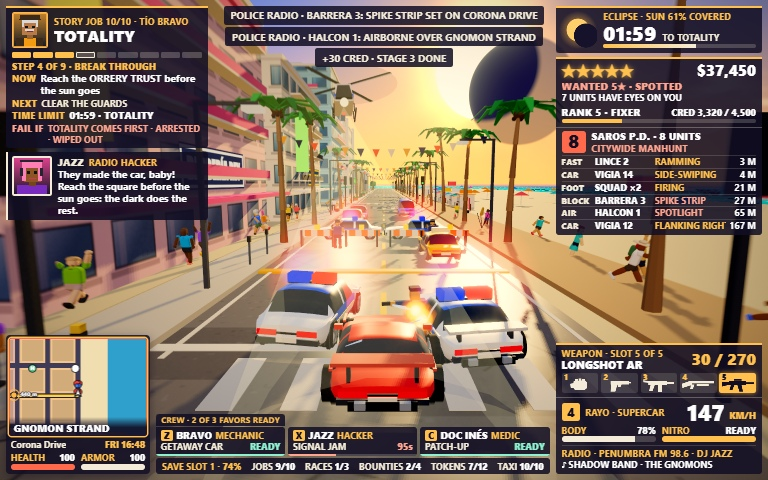
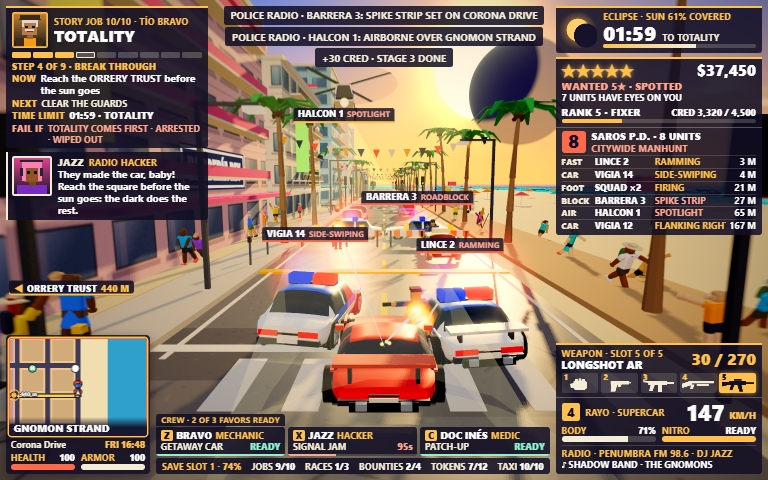
Callsign tags over the police units on her, each with the tactic it is running, and one under the helicopter; a waypoint plate on the screen where the job's next place stands, with its name and distance, sliding to the side it lies toward when out of view; the feed's lines live on the game's own tim

diff --git a/game/src/ui/hudUnitTags.js b/game/src/ui/hudUnitTags.js
@@ -1,0 +1,74 @@
+// Callsign tags over the police units hunting Nova: a small plate floating above each of the nearest cruisers,
+// interceptors and vans, the blockade and the helicopter, with the unit's radio name and the tactic it is running
+// right now. The dispatch panel lists the same units; the tags say which one on the street is which.
+import * as THREE from 'three';
+import { distance2D } from '../core/random.js';
+import { createElement } from './domBuilder.js';
+
+/** How many tags the HUD draws at once (fewer on the huge HUD), and how far away a unit still gets one. */
+const MAX_TAGS = 5;
+const ESSENTIAL_TAGS = 2;
+const TAG_RANGE = 85;
+
+export class HudUnitTags {
+  constructor(game, root, cache) {
+    this.game = game;
+    this.cache = cache;
+    this.layer = createElement('div', 'unit-tags', root);
+    this.point = new THREE.Vector3();
+    this.tags = [];
+    for (let index = 0; index < MAX_TAGS; index += 1) {
+      const tag = createElement('div', 'unit-tag', this.layer);
+      this.tags.push({ tag, name: createElement('b', '', tag), tactic: createElement('em', '', tag) });
+    }
+    this.found = [];
+  }
+
+  /** Every unit in range with a place in the world to hang a tag on, nearest first: [distance, x, y, z, unit, tactic]. */
+  unitsInRange() {
+    const game = this.game;
+    const player = game.player.position;
+    const found = this.found;
+    found.length = 0;
+    const blockades = new Set();
+    for (const vehicle of game.vehicles.list) {
+      if (vehicle.dead || vehicle.driver !== 'cop' || !vehicle.unit || !vehicle.controller) continue;
+      if (!vehicle.controller.isPursuit && !vehicle.controller.isBlockade) continue;
+      // The cars of one blockade share a callsign: the first of them carries its tag.
+      if (vehicle.controller.isBlockade) { if (blockades.has(vehicle.unit)) continue; blockades.add(vehicle.unit); }
+      const distance = distance2D(vehicle.position.x, vehicle.position.z, player.x, player.z);
+      if (distance < TAG_RANGE) found.push([distance, vehicle.position.x, vehicle.spec.height + 1.15, vehicle.position.z, vehicle.unit, vehicle.controller.tacticLabel()]);
+    }
+    const helicopter = game.police.helicopter;
+    if (helicopter.active && helicopter.unit) {
+      const at = helicopter.mesh.position;
+      const distance = distance2D(at.x, at.z, player.x, player.z);
+      // The helicopter's tag hangs under it, so the machine itself stays clear against the sky.
+      if (distance < TAG_RANGE) found.push([distance, at.x, at.y - 3.6, at.z, helicopter.unit, helicopter.tacticLabel()]);
+    }
+    return found.sort((a, b) => a[0] - b[0]);
+  }
+
+  update() {
+    const game = this.game;
+    const cache = this.cache;
+    const limit = game.hud.essentials ? ESSENTIAL_TAGS : MAX_TAGS;
+    let used = 0;
+    if (game.wanted.stars > 0 && game.player.alive) {
+      for (const [, x, y, z, unit, tactic] of this.unitsInRange()) {
+        if (used >= limit) break;
+        const point = this.point.set(x, y, z).project(game.camera.view);
+        if (point.z > 1 || Math.abs(point.x) > 0.96 || Math.abs(point.y) > 0.96) continue;
+        const entry = this.tags[used];
+        used += 1;
+        entry.tag.style.left = `${((point.x * 0.5 + 0.5) * 100).toFixed(2)}%`;
+        entry.tag.style.top = `${((0.5 - point.y * 0.5) * 100).toFixed(2)}%`;
+        cache.toggle(entry.tag, 'visible', true);
+        cache.toggle(entry.tag, 'air', unit.role === 'air');
+        cache.text(entry.name, unit.callsign);
+        cache.text(entry.tactic, tactic);
+      }
+    }
+    for (let index = used; index < MAX_TAGS; index += 1) cache.toggle(this.tags[index].tag, 'visible', false);
+  }
+}

diff --git a/game/src/ui/hud.js b/game/src/ui/hud.js
@@ -11,6 +11,8 @@ import { HudCrewPanel } from './hudCrewPanel.js';
 import { HudVehiclePanel } from './hudVehiclePanel.js';
 import { HudWeaponBar } from './hudWeaponBar.js';
 import { HudFoeBars } from './hudFoeBars.js';
+import { HudUnitTags } from './hudUnitTags.js';
+import { HudWaypoint } from './hudWaypoint.js';
 import { HudRecordStrip } from './hudRecordStrip.js';
 import { drawSpeakerPortrait } from './speakerPortraits.js';
 import { speakerJob } from '../missions/storyMissions.js';
@@ -21,6 +23,9 @@ export const HUD_SIZES = {
   large: { label: 'LARGE', scale: 1.2 },
   huge: { label: 'HUGE · ESSENTIALS', scale: 2.5, essentials: true },
 };
+
+/** How long a line stays in the feed, in seconds of play. */
+const NOTE_SECONDS = 4.3;
 
 /** The feed's line for what the radio is playing: the station, its frequency, the track and the artist. */
 function radioLine(playing) {
@@ -48,8 +53,11 @@ export class Hud {
     this.weaponBar = new HudWeaponBar(game, corner, this.cache);
     this.vehiclePanel = new HudVehiclePanel(game, corner, this.cache);
     this.foeBars = new HudFoeBars(game, root, this.cache);
+    this.unitTags = new HudUnitTags(game, root, this.cache);
+    this.waypoint = new HudWaypoint(game, root, this.cache);
     this.recordStrip = new HudRecordStrip(game, root, this.cache);
     this.buildOverlays(root);
+    this.notes = [];
     this.speech = [];
     this.speechClock = 0;
     this.bannerClock = 0;
@@ -137,13 +145,25 @@ export class Hud {
     this.root.classList.toggle('hidden', !visible);
   }
 
-  /** A short line in the feed at the top of the screen: pickups, purchases, cred, radio chatter. */
+  /**
+   * A short line in the feed at the top of the screen: pickups, purchases, cred, radio chatter. The three newest
+   * show; each lives a few seconds of the game's own time, so the feed holds still while the game is paused.
+   */
   notify(message) {
     const line = createElement('div', 'note', null, message);
     this.notifications.prepend(line);
-    while (this.notifications.children.length > 3) this.notifications.lastChild.remove();
-    setTimeout(() => line.classList.add('gone'), 3600);
-    setTimeout(() => line.remove(), 4300);
+    this.notes.unshift({ line, life: NOTE_SECONDS });
+    while (this.notes.length > 3) this.notes.pop().line.remove();
+  }
+
+  /** Age the feed: a line fades over its last moments, then goes. */
+  ageNotes(dt) {
+    for (let index = this.notes.length - 1; index >= 0; index -= 1) {
+      const note = this.notes[index];
+      note.life -= dt;
+      if (note.life < 0.7) note.line.classList.add('gone');
+      if (note.life <= 0) { note.line.remove(); this.notes.splice(index, 1); }
+    }
   }
 
   /** The big centred title of a job start, pass or fail. */
@@ -235,7 +255,10 @@ export class Hud {
     this.weaponBar.update(dt);
     this.vehiclePanel.update(dt);
     this.foeBars.update(dt);
+    this.unitTags.update(dt);
+    this.waypoint.update(dt);
     this.recordStrip.update(dt);
+    this.ageNotes(dt);
     cache.text(this.clock, `${game.calendar.dayName()} ${game.calendar.clockText()}`);
     cache.text(this.district, districtNameAt(player.position.x, player.position.z).toUpperCase());
     cache.text(this.street, streetNameAt(player.position.x, player.position.z));

diff --git a/game/src/ui/hudWaypoint.js b/game/src/ui/hudWaypoint.js
@@ -1,0 +1,64 @@
+// The HUD's waypoint: a plate that hangs on the screen where the job's next place stands in the world, with the
+// place's name and how many metres off it is. When that place is out of view the plate slides to the side of the
+// screen it lies toward and points that way. A street race hangs it on the next checkpoint.
+import * as THREE from 'three';
+import { distance2D } from '../core/random.js';
+import { createElement } from './domBuilder.js';
+
+/** The plate keeps to this band of the screen (shares of its width and height), clear of the panels in the corners. */
+const BAND = { left: 0.012, right: 0.988, top: 0.58, bottom: 0.6, aheadLeft: 0.3, aheadRight: 0.7, aheadTop: 0.18, aheadBottom: 0.64 };
+
+export class HudWaypoint {
+  constructor(game, root, cache) {
+    this.game = game;
+    this.cache = cache;
+    this.plate = createElement('div', 'waypoint', root);
+    this.arrow = createElement('i', 'waypoint-arrow', this.plate);
+    this.name = createElement('b', 'waypoint-name', this.plate);
+    this.metres = createElement('span', 'waypoint-metres', this.plate);
+    this.point = new THREE.Vector3();
+  }
+
+  /** Where the game is sending her right now: a race's next checkpoint, or the story job's next place. */
+  target() {
+    const game = this.game;
+    const race = game.races.active;
+    if (race) {
+      const next = race.points[race.index];
+      return next && race.countdown <= 0 ? { x: next.x, z: next.z, name: `CHECKPOINT ${race.index + 1}` } : null;
+    }
+    return game.missions.waypoint();
+  }
+
+  update() {
+    const game = this.game;
+    const cache = this.cache;
+    const target = game.player.alive ? this.target() : null;
+    const player = game.player.position;
+    const distance = target ? distance2D(player.x, player.z, target.x, target.z) : 0;
+    // On top of the place itself the plate has nothing left to say.
+    const shown = Boolean(target) && distance > 14;
+    cache.toggle(this.plate, 'visible', shown);
+    if (!shown) return;
+    const point = this.point.set(target.x, 3, target.z).project(game.camera.view);
+    const behind = point.z > 1;
+    let x = (behind ? -point.x : point.x) * 0.5 + 0.5;
+    let y = 0.5 - (behind ? -point.y : point.y) * 0.5;
+    const ahead = !behind && x > BAND.aheadLeft && x < BAND.aheadRight && y > BAND.aheadTop && y < BAND.aheadBottom;
+    let arrow = '◆';
+    if (!ahead) {
+      // Out of view (or behind a panel): the plate goes to the side the place lies on, half-way down the screen.
+      const toRight = behind ? point.x < 0 : x >= 0.5;
+      x = toRight ? BAND.right : BAND.left;
+      y = Math.min(BAND.bottom, Math.max(BAND.top, y));
+      arrow = toRight ? '▶' : '◀';
+    }
+    this.plate.style.left = `${(x * 100).toFixed(2)}%`;
+    this.plate.style.top = `${(y * 100).toFixed(2)}%`;
+    cache.toggle(this.plate, 'to-left', arrow === '◀');
+    cache.toggle(this.plate, 'to-right', arrow === '▶');
+    cache.text(this.arrow, arrow);
+    cache.text(this.name, target.name);
+    cache.text(this.metres, `${Math.round(distance)} M`);
+  }
+}

diff --git a/game/css/hud.css b/game/css/hud.css
@@ -259,6 +259,29 @@ html, body { margin: 0; height: 100%; overflow: hidden; background: #0b0818; col
 .foe-track i { display: block; height: 100%; background: #ff4a3a; }
 .foe-bar.police .foe-track i { background: #4d8dff; }
 
+/* The waypoint: the job's next place as a plate on the screen, with its name and its distance; out of view, the
+   plate sits at the side of the screen the place lies toward */
+.waypoint { position: absolute; display: none; transform: translate(-50%, -50%); align-items: center; gap: 0.8vh; padding: 0.35vh 1.1vh 0.4vh; background: var(--panel); border-radius: 0.6vh; box-shadow: inset 0 -0.42vh 0 var(--amber); font-size: var(--t9); line-height: 1.25; white-space: nowrap; }
+.waypoint.visible { display: flex; }
+.waypoint.to-left { transform: translate(0, -50%); }
+.waypoint.to-right { transform: translate(-100%, -50%); flex-direction: row-reverse; }
+.waypoint-arrow { font-style: normal; font-size: var(--t10); line-height: 1; color: var(--amber); }
+.waypoint-name { font-weight: 900; letter-spacing: 0.04vh; color: #fff; }
+.waypoint-metres { font-weight: 900; color: var(--amber); }
+#hud.essentials .waypoint { gap: 0.5vh; padding: 0.2vh 0.7vh 0.35vh; font-size: var(--t8); box-shadow: inset 0 -0.3vh 0 var(--amber); }
+#hud.essentials .waypoint-arrow { font-size: var(--t8); }
+#hud.essentials .waypoint-name, #hud.essentials .waypoint-metres { font-weight: 700; letter-spacing: 0; }
+
+/* Callsign tags over the police units on her: the unit's radio name, then what it is doing */
+.unit-tag { position: absolute; display: none; transform: translate(-50%, -100%); padding: 0.15vh 0.9vh 0.2vh; background: rgba(18, 14, 36, 0.82); border-bottom: 0.42vh solid var(--coral); border-radius: 0.5vh 0.5vh 0 0; font-size: var(--t9); line-height: 1.25; white-space: nowrap; }
+.unit-tag.visible { display: block; }
+.unit-tag b { font-weight: 900; color: #fff; }
+.unit-tag em { margin-left: 0.8vh; font-style: normal; font-size: var(--t8); color: var(--alarm); }
+.unit-tag.air { border-bottom-color: var(--amber); }
+#hud.essentials .unit-tag { padding: 0.1vh 0.6vh; font-size: var(--t8); border-bottom-width: 0.3vh; }
+#hud.essentials .unit-tag b { font-weight: 700; }
+#hud.essentials .unit-tag em { display: none; }
+
 .banner { position: absolute; left: 0; right: 0; top: 21vh; text-align: center; opacity: 0; transform: scale(0.9); transition: 0.35s; }
 .banner.visible { opacity: 1; transform: none; }
 .banner-title { font-family: var(--display); font-weight: 400; font-size: 10vh; line-height: 1; letter-spacing: 0.4vh; text-shadow: 0 0.6vh 0 var(--ink), 0 0 3vh rgba(18, 14, 36, 0.6); }

diff --git a/game/src/missions/missionDirector.js b/game/src/missions/missionDirector.js
@@ -6,6 +6,7 @@ import { CRED_AWARDS } from '../progression/streetCred.js';
 import { leaveVehicle } from '../vehicles/carjacking.js';
 import { createTrafficDriverFor } from '../vehicles/trafficAI.js';
 import { SeededRandom, distance2D } from '../core/random.js';
+import { landmarkNear } from '../world/cityLayout.js';
 
 export class MissionDirector {
   constructor(game) {
@@ -316,6 +317,20 @@ export class MissionDirector {
     vehicle.stolen = false;
     vehicle.parked = true;
     run.vehicle = null;
+  }
+
+  /**
+   * The one place the step in hand sends her to, with a name for it (the landmark that stands there, the car to
+   * take, or the step's own name), or null when the step has no single place: the HUD hangs its waypoint on it.
+   */
+  waypoint() {
+    const run = this.active;
+    if (!run || !run.step) return null;
+    const step = run.step;
+    if (step.kind === 'steal' && run.vehicle) return { x: run.vehicle.position.x, z: run.vehicle.position.z, name: run.vehicle.spec.name.toUpperCase() };
+    if (!step.at) return null;
+    const place = landmarkNear(step.at[0], step.at[1]);
+    return { x: step.at[0], z: step.at[1], name: place ? place.name : (step.stage || 'OBJECTIVE').toUpperCase() };
   }
 
   /** What the minimap should show for the story: objectives while on a job, givers otherwise. */

diff --git a/game/src/world/cityLayout.js b/game/src/world/cityLayout.js
@@ -83,6 +83,17 @@ function landmark(id, name, i, j, color, icon, subtitle) {
   return { id, name, block: [i, j], color, icon, subtitle, ...sidewalkSpot(i, j), kerb: kerbSpot(i, j) };
 }
 
+/** The landmark within `range` metres of a point, nearest first, or null: a place's name for a waypoint. */
+export function landmarkNear(x, z, range = 48) {
+  let best = null;
+  let nearest = range;
+  for (const place of Object.values(LANDMARKS)) {
+    const distance = Math.hypot(place.x - x, place.z - z);
+    if (distance < nearest) { nearest = distance; best = place; }
+  }
+  return best;
+}
+
 /** The named places of the story, each on the south sidewalk of its block. */
 export const LANDMARKS = {
   safehouse: landmark('safehouse', 'CASA REYES', 1, 5, '#58c48d', 'H', 'safehouse · rest and save'),
